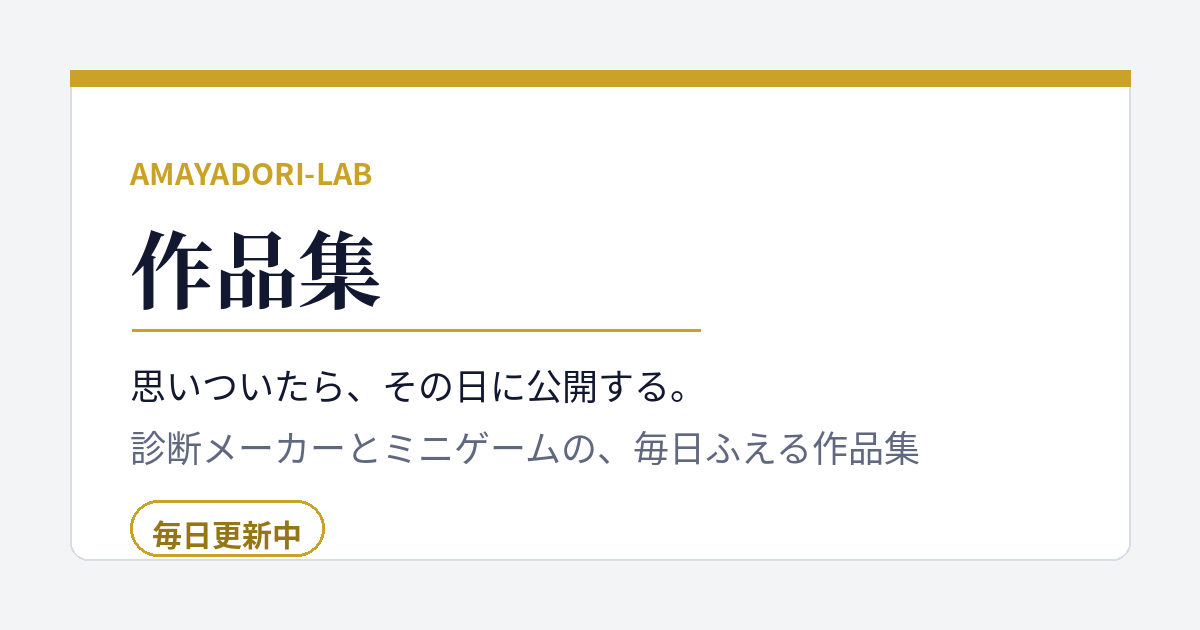
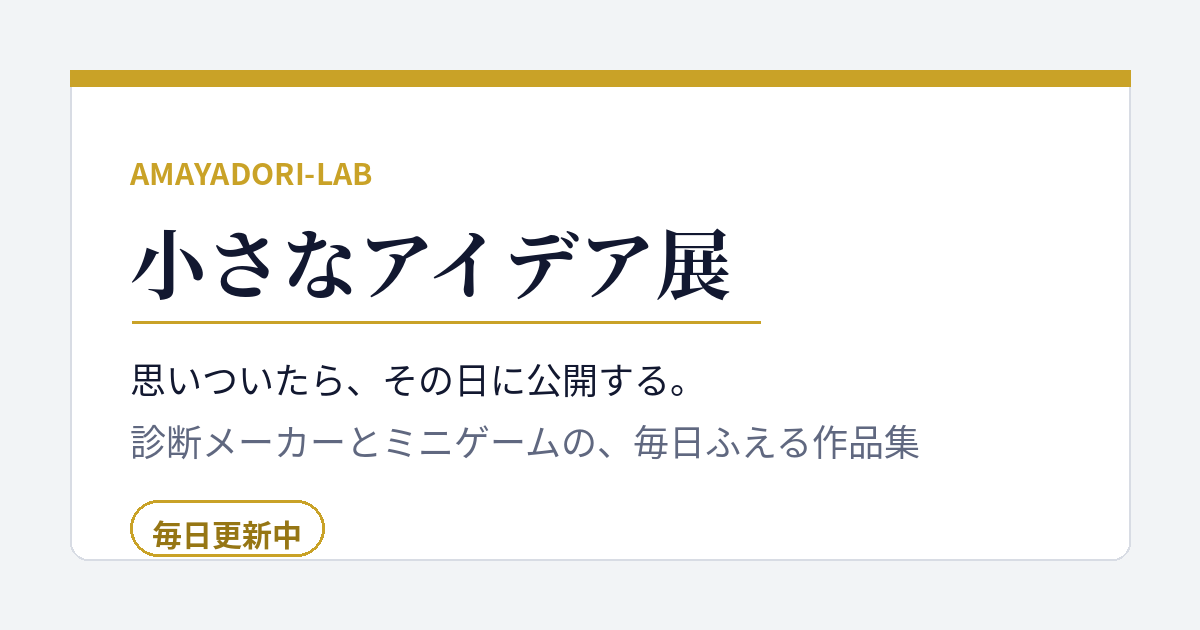
Add files via upload

Changed region(s): [[0.0925, 0.3619, 0.6167, 0.5429], [0.0925, 0.6635, 0.7708, 0.754], [0.0925, 0.573, 0.5858, 0.6333]]

diff --git a/index.html b/index.html
@@ -5,10 +5,10 @@
     <meta name="viewport" content="width=device-width, initial-scale=1, viewport-fit=cover" />
     <meta name="color-scheme" content="light dark" />
     <link rel="icon" href="data:," />
-    <title>amayadori-lab 作品集</title>
+    <title>小さなアイデア展｜amayadori-lab</title>
     <meta name="description" content="思いついたら、その日に公開する。個人開発の作品をまとめたページです。" />
     <meta property="og:type" content="website" />
-    <meta property="og:title" content="amayadori-lab 作品集" />
+    <meta property="og:title" content="小さなアイデア展｜amayadori-lab" />
     <meta property="og:description" content="思いついたら、その日に公開する。個人開発の作品集。" />
     <meta property="og:url" content="https://amayadori-lab.github.io/" />
     <meta property="og:image" content="https://amayadori-lab.github.io/ogp.png" />
@@ -76,6 +76,13 @@
         line-height: 1.3;
         margin: 0 0 8px;
         letter-spacing: 0.01em;
+      }
+      .brand {
+        margin: 0 0 6px;
+        font-size: 13px;
+        font-weight: 700;
+        letter-spacing: 0.08em;
+        color: var(--gold-ink);
       }
       .tagline {
         margin: 0 0 18px;
@@ -249,7 +256,8 @@
 
       <!-- ヘッダー（タイトル・タグラインはここに集約。シリーズ名の差し替えはこのブロック内だけで済む） -->
       <header class="site-header">
-        <h1>amayadori-lab 作品集</h1>
+        <p class="brand">amayadori-lab</p>
+        <h1>小さなアイデア展</h1>
         <p class="tagline">思いついたら、その日に公開する。</p>
         <div class="header-meta">
           <span class="count-pill">作品 8点</span>
